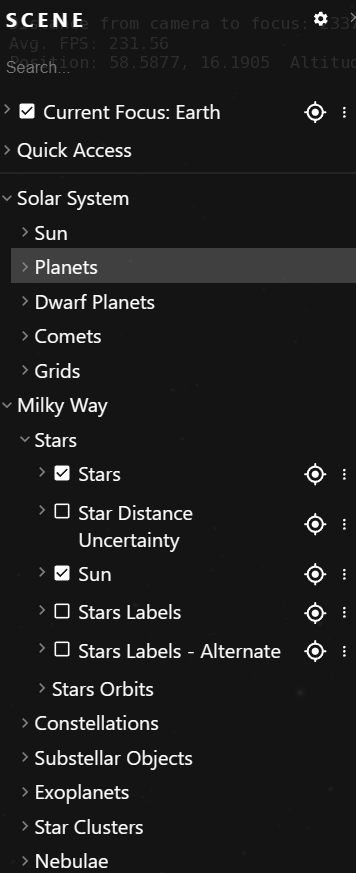
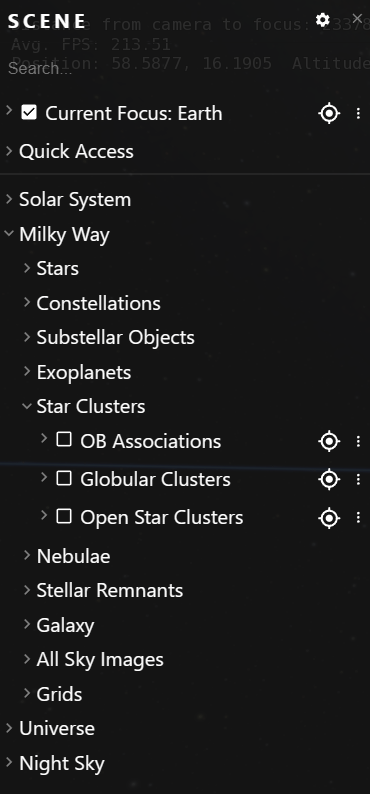
First draft of Scene Panel page in "Using" chapter.

diff --git a/using-openspace/scene-panel/index.md b/using-openspace/scene-panel/index.md
@@ -7,37 +7,44 @@ authors:
 
 # Scene Panel: Manipulating Data
 
-:::{warning}
-This section is in progress. Text will appear on this page in the future.
+We covered the Scene Panel basics in [](/getting-started/orientation/index). Here, we are going to go deeper into the structure of the Scene Panel and its functionality.
+
+
+<div style="margin-left: auto; margin-right: auto; width: 640px;">
+<iframe width="640" height="360" src="https://www.youtube.com/embed/MGnsgElqo1w?si=xR-c_PxzUDa5NWAA" title="YouTube video player" frameborder="0" allow="accelerometer; autoplay; clipboard-write; encrypted-media; gyroscope; picture-in-picture; web-share" referrerpolicy="strict-origin-when-cross-origin" allowfullscreen></iframe>
+
+:::{dropdown} Visual Transcript
+
+| Video time | Description |
+|:-------------|:------------------|
+| 0:00 | Open the Scene Panel. The current focus will be at the top of the list. |
+| 0:09 | Open the scene hierarchy by clicking on one of the options. |
+| 0:15 | Search for data sets using the search bar. |
+| 0:21 | Turn on the data set by clicking the checkbox next to its name. |
+| 0:25 | Change the properties of a data set by clicking on its name to open its submenu. Under Renderable, change the color and size, and enable labels. |
 :::
+</div>
 
 
 :::{figure} scene_panel.png
 :align: right
-:alt:
+:width: 90%
+:figwidth: 40%
+:alt: OpenSpace's Scene Panel
 
-The Scene Panel in OpenSpace.
+The Scene Panel in OpenSpace, looking at the data sets under Star Clusters.
 :::
 
-We covered the Scene Panel basics in [](/getting-started/orientation/index). Here, we are going to go deeper into the structure of the Scene Panel and its functionality.
+The Scene Panel is a hierarchial listing of all the data sets in your OpenSpace session, which are determined by what assets are in the profile you loaded upon launching OpenSpace.
 
-The Scene Panel is a hierarchial listing of data sets in your OpenSpace session, which are determined by what assets are in the profile you loaded upon launching OpenSpace.
+Expanding a data set will display its properties and their adjustment tools. These can be color choosers, sliders, or text boxes to type into that can change the size of a data set or its labels, the color and opacity of data, and the width and length of trails, to name a few. 
 
-:::{note}
-We will refer to aspects of the Scene Panel with the path convention, for example: \
-{menuselection}`Scene --> Solar System --> Planets --> Earth`
- 
-In the context of a data set, we'll use the ellipses to abbreviate the path: \
-{menuselection}`... --> Earth --> Moon --> Moon Label` \
-or, for example, to change the scale of the Moon Label: \
-{menuselection}`... --> Moon --> Moon Label --> Scale`.
-:::
 
 
 ## Locating Data Sets
 First and foremost, the Scene Panel is used to access all the data sets loaded into OpenSpace. What shows up in the Scene Panel is based on which assets are loaded into the profile used to launch OpenSpace.
 
-The Scene Panel is organized by scales, with groups for the Solar System, Milky Way, and Universe---everything outside the Milky Way Galaxy. It is not limited to these three groups---there is a Night Sky group too---but much of the data you see in OpenSpace is in one of these three.
+The Scene Panel is organized by scales, with groups for the Solar System, Milky Way, and Universe (everything outside the Milky Way Galaxy). It is not limited to these three groups---there is a Night Sky group too---but much of the data you see in OpenSpace is in one of these three.
 
 The entire [](/content/index) chapter's structure is based on the structure of the Scene Panel.
 
@@ -50,58 +57,167 @@ To get the rest of the tree back, clear the search box.
 
 
 
+
+:::{note}
+We will refer to aspects of the Scene Panel with the path convention, for example: \
+{menuselection}`Scene --> Milky Way --> Star Clusters --> Open Clusters`
+ 
+In the context of a data set, we'll use the ellipses to abbreviate the path: \
+{menuselection}`... --> Open Clusters --> Renderable --> Labels --> Size` \
+or, for example, to change the size (brightness) of the Open Clusters: \
+{menuselection}`... --> Renderable --> Sizing --> Scale Exponent`.
+:::
+
+
+
 ## Turning Data On and Off
-One of the primary uses of the Scene Panel is to turn data sets on and off. Using the check box besiide each data set's name in the panel, you can toggle the data set on or off.
+One of the primary uses of the Scene Panel is to turn data sets on and off. Using the check box beside each data set's name in the panel, you can toggle the data set on or off.
+
+:::{note}
+For some objects, you may have to turn off more than one data set to remove it from view. Most notably, planets with atmospheres, where the planet is one checkbox and the atmosphere is a different data set to uncheck.
+:::
+
+:::{warning}
+Some data sets have a sizing or fading setting applied to them based on your distance from them, so they may not appear even if you turn them on. The galaxy surveys like [Tully Galaxies](/content/universe/nearby-surveys/tully-galaxies/index) or the [](/content/universe/deep-sky-surveys/sloan-galaxies/index) or the planet labels are examples of this. If you want to see Tully Galaxies from the night sky, you must uncheck: \
+{menuselection}`Scene --> Universe --> Nearby Surveys --> Tully Galaxies --> Renderable --> Fading --> Enable Distance Based Fading`
+:::
 
 
 
-## Hierarchial Structure
-The Scene Panel has a hierarchial structure, expanding deeper and deeper depending on how many items and nested settings you have. At its most basic, each data set will have at least three submenus:
+## Targeting a Data Set
+To the right of the data set is the target icon ![Focus button](/getting-started/orientation/navigation_panel_focus_button.png). You can press this button to set that data set as the focus.
+
+:::{note}
+Many of these data sets are observationally based---so they are centered on the Sun. If you were to press ![Focus button](/getting-started/orientation/navigation_panel_focus_button.png) for the Open Star Clusters, the Sun would remain the Focus. This button is more critical when you want to visit a planet, moon, or a spacecraft.
+:::
+
+
+## Quick Access Menu
+
+:::{figure} scene_panel_context_menu.png
+:align: right
+:width: 100%
+:figwidth: 30%
+:alt: OpenSpace's Scene Panel Context Menu
+:::
+
+Beside the target button is a context menu ![Context menu](/getting-started/orientation/navigation_panel_context_menu_button.png). This opens up a subpanel that has the navigation options to Fly To, Jump To, or Pan+Fly To. There is also a button to connect you to information about the data set.
+
+
+
+
+
+## Asset Settings
+The Scene Panel has a hierarchial structure, expanding deeper and deeper depending on how many nested items you have. Under each data set, there is a hierarchical list of settings. At its most basic, each data set will have three settings submenus:
 - Renderable: where all of the settings for the renderable used by the data set can be changed---the look of the data set.
 - Scale: where you can scale the data up or down spatially.
 - Translation: where you can move the data set spatially in x, y, z.
 
+:::{figure} scene_panel_open_clusters.png
+:align: center
+:width: 70%
+:figwidth: 60%
+:alt: The Scene Panel's settings for the Open Star Clusters.
+
+The Scene Panel's settings for the Open Star Clusters. \
+{menuselection}`Scene --> Milky Way --> Star Clusters --> Open Star Clusters`.
+:::
+
+
+:::{important}
+**The Asset's Renderable Determines the Data Set's Settings**
+
+In this section we are showing the Scene Panel and settings for the [Open Star Clusters](/content/milky-way/star-clusters/open-clusters/index). The Renderable for the Open Clusters is [RenderablePolygonCloud](/reference/asset-components/RenderablePolygonCloud), and that Rendedrable has a Sizing setting. The [Stars](/content/milky-way/stars/stars/index) data set, for example, uses [RenderableStars](/reference/asset-components/RenderableStars), which has no Sizing setting.
+
+We chose Open Clusters because a lot of data sets use the RenderablePolygonCloud renderable, but you will need to see a specific data set's renderable to understand its settings.
+:::
+
+
+### Sizing
+The most important setting under each data set is {menuselection}`... --> Renderable --> Sizing`. This determines the size of the points and, hence, their brightness. This is critical because as you change your distance from a data set, you will need to make it brighter for it to remain in view. Like the universe, light falls off with distance, so as you move away from a data set, it will become dimmer. This is an important cue for our brains to absorb the scales which we're traversing.
+
+To remedy this, you can use the Sizing sliders. Bring the value up to increase the size, making it more visible form farther away.
+
+:::{figure} scene_panel_sizing.png
+:align: center
+:width: 70%
+:figwidth: 60%
+:alt: The Open Star Clusters' Sizing settings.
+
+The Open Star Clusters' Sizing settings consists of a slider for Scale Factor and one for Scale Exponent. {menuselection}`... --> Renderable --> Sizing`.
+:::
+
+Sizing a data set's points is a bit tricky. There are several variables that determine a point's final size. You see two here, Scale Exponent, and Scale Factor. There are also settings to determine a maximum size for the points that can clamp the size. And, your position also factors into the point size particularly when you are close to a point.
+
+#### Scale Exponent
+This is an exponential slider that ranges from 0 to 25. It sets the absolute size of the points in meters to this exponent. If you set this value to zero, the resulting size will be 1 ({math}`e^0 = 1`). It's wise to set this value first such that the data set looks decent close up, for example from the night sky view with the Open Clusters, but also so they don't totally disappear if you fly out to see the entire data set.
+
+#### Scale Factor
+This is a simple multiplying factor on top of the Scale Exponent. With the Open Clusters, you'll notice they are sized well for viewing in the night sky---the points don't dominate the entire sky. However, when you fly out of the Galaxy, they are barely visible. It's best here to use the Scale Factor to simply scale the point size up.
+
+:::{note}
+Because we traverse such vast scales in OpenSpace, it's challenging to get a size setting that works for nearby and far away.
+
+It is inevitable that as you move through space, you will need to adjust your sizing to see the view you want. What may work for inside the [Tully Galaxies](/content/universe/nearby-surveys/tully-galaxies/index) will absolutely not work if you want to see these galaxies from the outside and highlight the large-scale structure.
+
+In OpenSpace, size is crucial for the visual comprehension of these data sets.
+:::
+
+
+### Scale
+The Scale Slider simply rescales the data set. A data set is generally made of {math}`(x, y, z)` positions, and changing this slider literally adds a scaling factor to each coordinate.
+
+In the case of a planet or an object (like a spacecraft model), the Scale Slider will make the object larger. This can be extremely useful if you want to see a planet while in the outer reaches of the Solar System.
+
+
+### Translation
+This is a set of three sliders, one for each coordinate in x, y, z, that will move a data set from its current position.
+
+The tricky thing with these sliders is that, natively, everything is in meters in OpenSpace. As you can imagine, once you reach even Neptune's distance, let alone far-off galaxies, the number of meters becomes unwieldy. These sliders are in meters, so it can be cumbersome to use them effectively.
 
 
 
-Renderable, Scale, Translation
-even labels have these
+### Coloring
+Changing color in OpenSpace is fairly straightforward. Under the Coloring section is a color chooser, a three-parameter red-green-blue color input, and settings for outlines.
 
-and labels have Sizing, which does notihing... need to use Labels then Size under that.
+:::{figure} scene_panel_coloring.png
+:align: center
+:width: 70%
+:figwidth: 60%
+:alt: The Open Star Clusters' Coloring settings.
 
-## 
+The Open Star Clusters' Coloring settings consists of a color chooser (recommended) as well as a red-green-blue inputs. {menuselection}`... --> Renderable --> Coloring`.
+:::
 
-
-## Using the Menus - Datasets
-This section will cover using the menus to turn on and off or manipulate datasets.
-
-
-### Finding Datasets
-  - All datasets in OpenSpace can be found in the Scene menu.
-  - You can search for datasets by typing into the search bar, or browse for them in the menus.
-  - Some things you find will not be datasets, and instead are just a focus node. All items that are datasets will show a checkbox next to their name.
-  - Some items with checkboxes may not be traditionally considered a dataset, such as a 3D model, or a planet.
-
-### Enabling and Disabling Datasets
-  - Use the checkbox next to the dataset's name in the menu to turn it on or off in OpenSpace.
-  - Sometimes you will have to enable or disable multiple items for the effect you want. For example, if you don't want to see Mars, you must also turn off its atmosphere, which is a separate checkbox.
-  - Some datasets have sizing or fading applied to them based on distances, so they may not appear even if they are enabled. The 'Tully Galaxies' or 'Earth Label' are examples of this.
+The color chooser is the easiest method here to change a color interactively in OpenSpace.
 
 
-### Manipulating Datasets
-  - For most datasets, you can change aspects of how they are visualized in OpenSpace. Examples include changing the color, opacity of items, the size of text, and the width or length of trails.
-  - Changes can be made by clicking the item's title to open its submenu.
-  - You can also click the wrench icon to pop out a panel for the item's properties.
-  - Changes made are not saved between OpenSpace sessions. To learn how to save your changes, stay tuned for the [Customizing OpenSpace - Profiles](/using-openspace/create-profile/index) tutorial.
+### Labels
+Label settings are controlled in the Labels dropdown. Here, you can set an opacity, color, size, and font size. But, most importantly, you turn them on and off with the checkbox.
+
+:::{figure} scene_panel_labels.png
+:align: center
+:width: 70%
+:figwidth: 60%
+:alt: The Open Star Clusters' Labels settings.
+
+The Open Star Clusters' Labels settings. {menuselection}`... --> Renderable --> Labels`.
+:::
+
+The Opacity merely controls how transparent the labels are drawn. This can affect their brightness and color. Opacity ranges from 0 to 1, where 0 is completely transparent (and, hence, invisible), and 1 is totally opaque. If you set the label color to white, then they will be pure white at an opacity of 1. If you have an opacity less than 1, they will be a bit more grayer.
+
+The Size is the most important slider here, but it is also exponential, so it can be ultra sensitive.
+
+:::{warning}
+Some data sets, for example [](/content/milky-way/stars/star-labels/index), [](/content/universe/nearby-surveys/galaxy-group-labels/index), [](/content/universe/nearby-surveys/voids/index), or [](/content/universe/deep-sky-surveys/supercluster-labels/index), only have labels.
+
+When you look at their settings in the Scene Panel, you will still see the Sizing setting. _This will not change the label size_. You still must change the label size under {menuselection}`... --> Renderable --> Labels --> Size`.
+:::
 
 
-### Video
-<iframe width="740" height="530" src="https://www.youtube.com/embed/MGnsgElqo1w" frameborder="0" allow="autoplay; encrypted-media" allowfullscreen></iframe>
 
-| Video time | Description |
-|:-------------|:------------------|
-| 0:00 | Open the scene menu. The current focus will be at the top of the list. |
-| 0:09 | Open the scene hierarchy by clicking on one of the options. |
-| 0:15 | Search for datasets using the search bar. |
-| 0:21 | Turn on the dataset by clicking the checkbox next to its name. |
-| 0:25 | Change the properties of a dataset by clicking on its name to open its submenu. Under Renderable, change the color and size, and enable labels. |
+## Can I Save my Changes?
+Short answer: no. 
+
+Longer answer, yes, but not in an automated way yet. If you find settings that you want to preserve, you must add them to that data set's asset file, then save that file. Each data set's asset file is listed in that data set's dossier in the [Content](/content/index) Chapter.
+

diff --git a/using-openspace/index.md b/using-openspace/index.md
@@ -17,7 +17,8 @@ For this chapter, we need to understand a bit more what goes on under the hood w
 [The Building Blocks of OpenSpace](/using-openspace/building-blocks/index)
 : How profiles, assets, and renderables work together.
 
-
+[Scene Panel](/using-openspace/scene-panel/index)
+: Turn data sets on and off and alter their appearance.
 
 
 :::{toctree}
@@ -25,6 +26,7 @@ For this chapter, we need to understand a bit more what goes on under the hood w
 :hidden:
 
 building-blocks/index
+scene-panel/index
 :::
 
 
@@ -34,7 +36,7 @@ building-blocks/index
 :maxdepth: 1
 :caption: Using OpenSpace (Unrenovated)
 
-scene-panel/index
+
 focus-menu/index
 time-menu/index
 actions-menu/index
